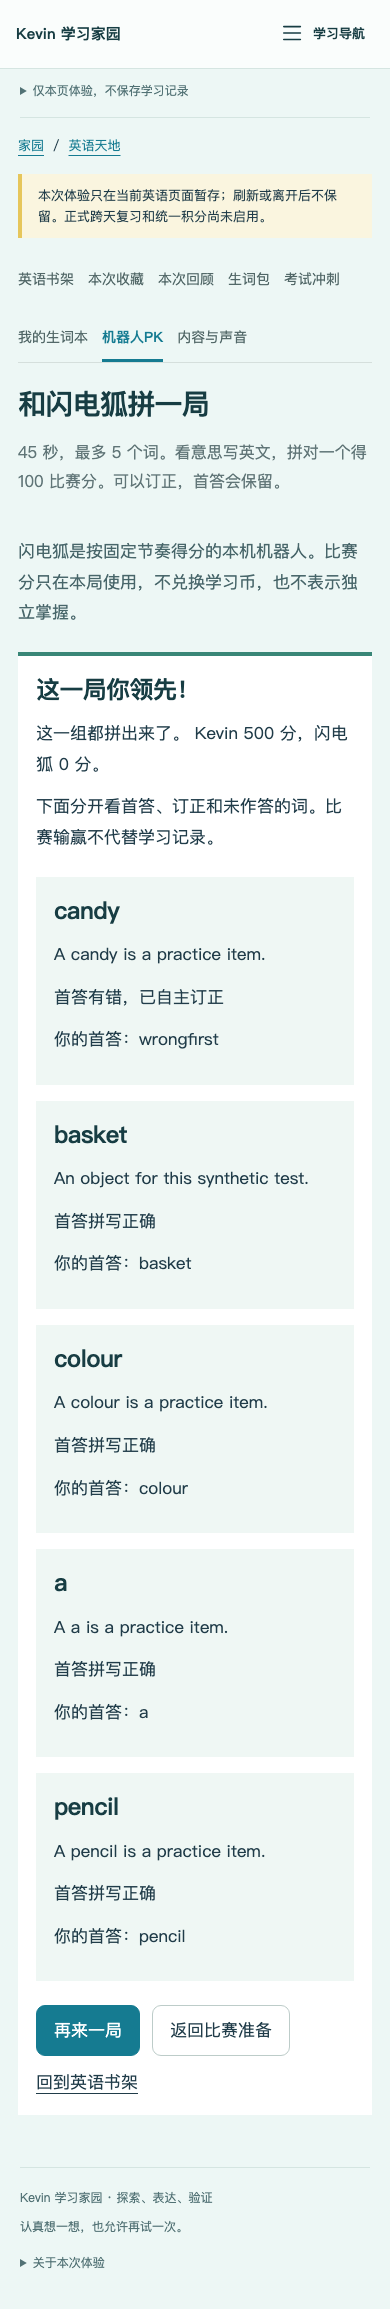
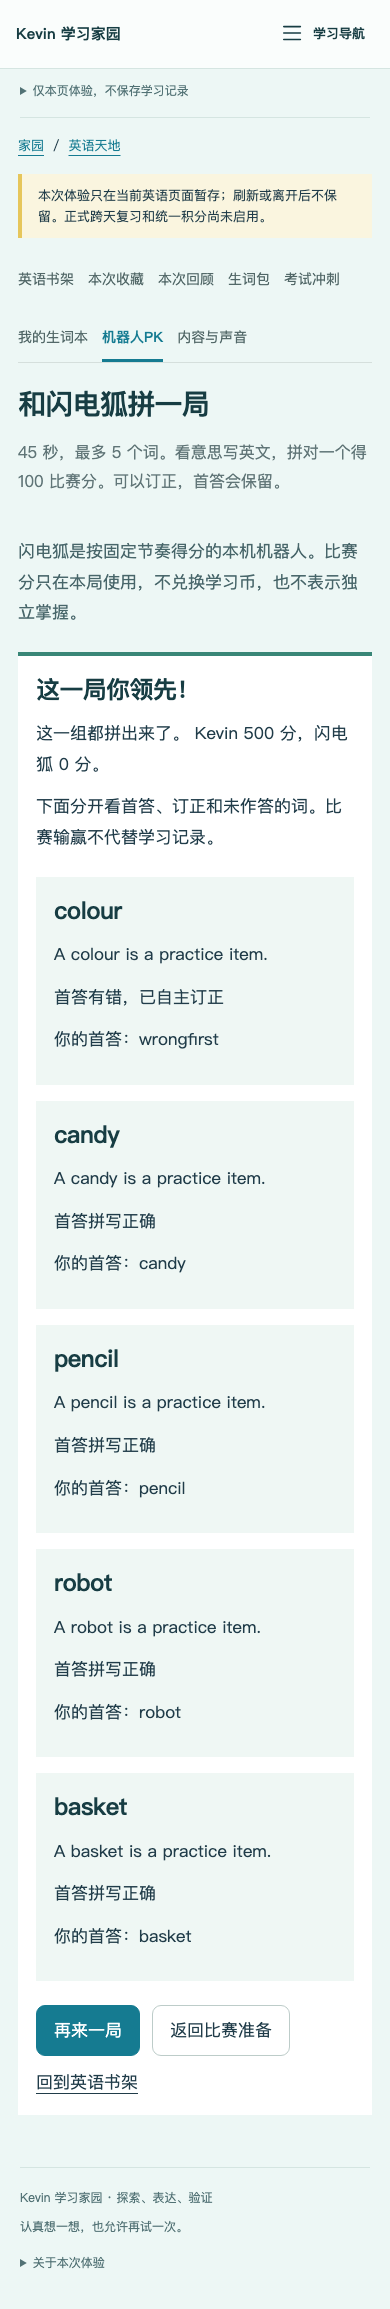
test(english): keep PK fixtures consistent and verify real review lookup

diff --git a/tests/english/fixture.ts b/tests/english/fixture.ts
@@ -8,7 +8,9 @@ import {
   type EnglishBundle,
   type EnglishCard,
 } from "../../packages/english/contract.ts";
-export async function fixture() {
+export async function fixture(
+  options: { additionalWords?: { word: string; zh: string }[] } = {},
+) {
   const directory = mkdtempSync(join(tmpdir(), "klh-english-synthetic-"));
   mkdirSync(join(directory, "media"));
   const image = await sharp({
@@ -19,28 +21,33 @@ export async function fixture() {
     hash = englishHash(image),
     url = "/preview-api/v1/english/media/" + hash + ".webp";
   writeFileSync(join(directory, "media", hash + ".webp"), image);
-  const cards: EnglishCard[] = ["candy", "colour", "a", "pencil"].map(
-    (word, i) => ({
-      id: "synthetic-" + word,
-      bankId: "core2000",
-      sourceGroupId: "synthetic-group",
+  const sourceWords = [
+    ...["candy", "colour", "a", "pencil"].map((word, i) => ({
       word,
-      en: "A " + word + " is a practice item.",
       zh: ["糖果", "颜色", "一个", "铅笔"][i],
-      ipa: "",
-      pos: "n.",
-      example: "I see " + word + ".",
-      exampleZh: "",
-      chunks: [word],
-      tip: "",
-      image: url,
-      imageStatus: "synthetic",
-      contentVersion: "synthetic-v1",
-      spellingVariants: word === "colour" ? ["color"] : [],
-      semanticAlternatives: word === "candy" ? ["sweet"] : [],
-      quizClue: "",
-    }),
-  );
+    })),
+    ...(options.additionalWords ?? []),
+  ];
+  const cards: EnglishCard[] = sourceWords.map(({ word, zh }) => ({
+    id: "synthetic-" + word,
+    bankId: "core2000",
+    sourceGroupId: "synthetic-group",
+    word,
+    en: "A " + word + " is a practice item.",
+    zh,
+    ipa: "",
+    pos: "n.",
+    example: "I see " + word + ".",
+    exampleZh: "",
+    chunks: [word],
+    tip: "",
+    image: url,
+    imageStatus: "synthetic",
+    contentVersion: "synthetic-v1",
+    spellingVariants: word === "colour" ? ["color"] : [],
+    semanticAlternatives: word === "candy" ? ["sweet"] : [],
+    quizClue: "",
+  }));
   const bundle: EnglishBundle = {
     schemaVersion: 1,
     sourceSha: ENGLISH_SOURCE_SHA,

diff --git a/tests/english/pk.test.ts b/tests/english/pk.test.ts
@@ -13,19 +13,13 @@ const command = (e: EnglishTraining, q: QuizView, action: string, extra = {}) =>
     ...extra,
   });
 async function setup() {
-  const f = await fixture();
-  const cards = [...f.content.cards.values()];
-  for (let i = 0; i < 4; i++)
-    cards.push({
-      ...cards[0],
-      id: "extra-" + i,
+  const f = await fixture({
+    additionalWords: Array.from({ length: 4 }, (_, i) => ({
       word: "word" + String.fromCharCode(98 + i),
-      en: "A distinct practice item.",
       zh: "合成意思" + i,
-    });
-  // Source group is kept for each card; only synthetic content is used.
+    })),
+  });
   const c = f.content;
-  for (const card of cards) c.cards.set(card.id, card);
   let now = 100000,
     elapsed = 0;
   const e = new EnglishTraining(
@@ -58,6 +52,7 @@ test("PK uses five unique source words; pre-answer view has no keys, answers or 
     assert.equal(q.mask, null);
     assert.equal(q.pk!.score, 0);
     for (const t of s.tasks) {
+      assert.equal(x.f.content.publicCard(t.card.id).groupId, t.card.sourceGroupId);
       assert.equal(JSON.stringify(q).includes(t.card.id), false);
       assert.equal(q.clue.includes(t.card.word), false);
     }

diff --git a/docs/english/PK-IMPLEMENTATION-REPORT.md b/docs/english/PK-IMPLEMENTATION-REPORT.md
@@ -62,3 +62,6 @@
 
 
 验收过程留痕：首轮旧专题255流程的实际浏览器操作完成，但归档发现运行期间英语页文件仍有改动，按预期抛出 `MEASURED_LIBRARY_SOURCE_CHANGED apps/preview/english/English.tsx`。该次不能当作最终来源证据；保留失败日志，冻结运行代码后重新执行849/255两组浏览器与归档，不删除守卫、不手填新hash。
+
+
+合成夹具复核：原PK测试曾在内容构造后只向卡Map加入额外词，未同时加入分组，可能让测试中的回顾查询失败而主流程仍通过。现改为构造fixture时一次生成完整卡/分组/目录，并明确断言回顾无错误提示、错词确实可打开；真实来源分组无此缺陷，产品运行代码未因此改变。
